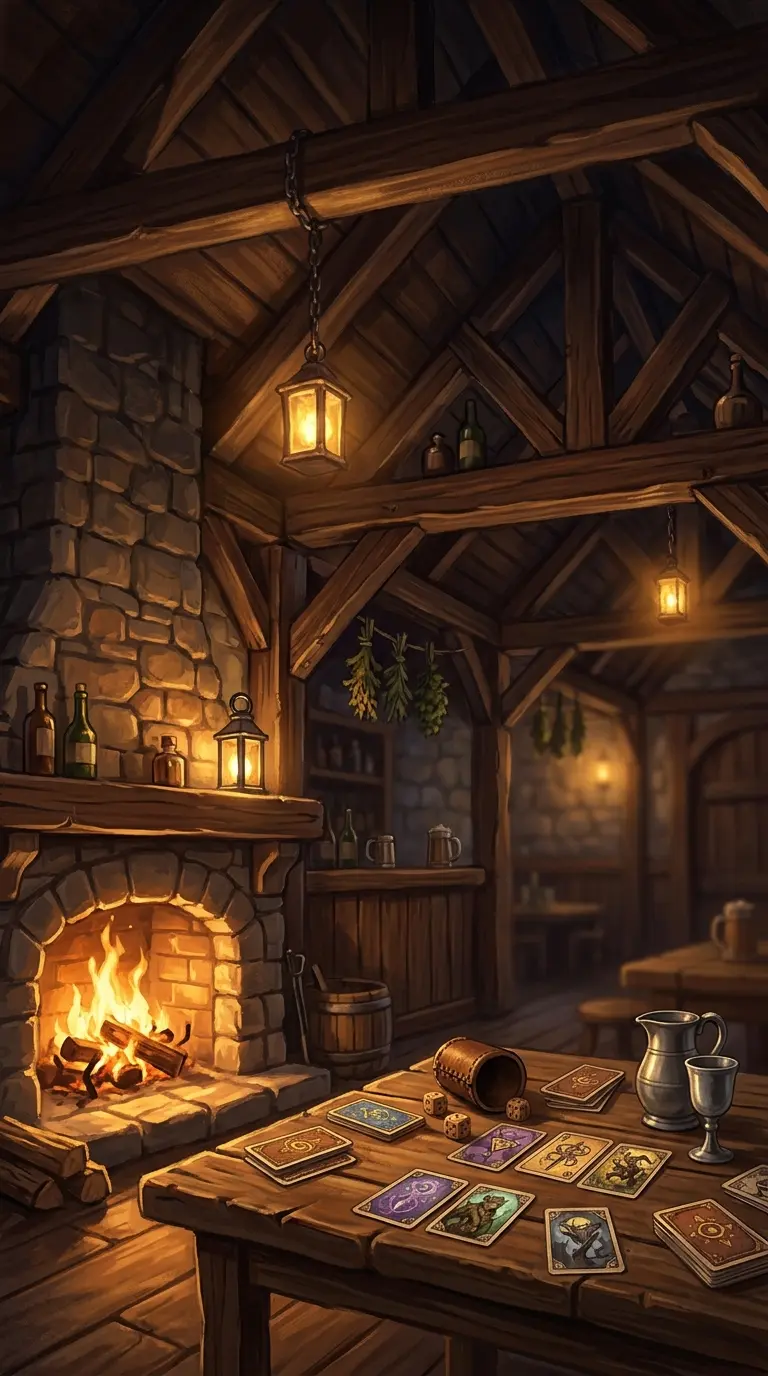
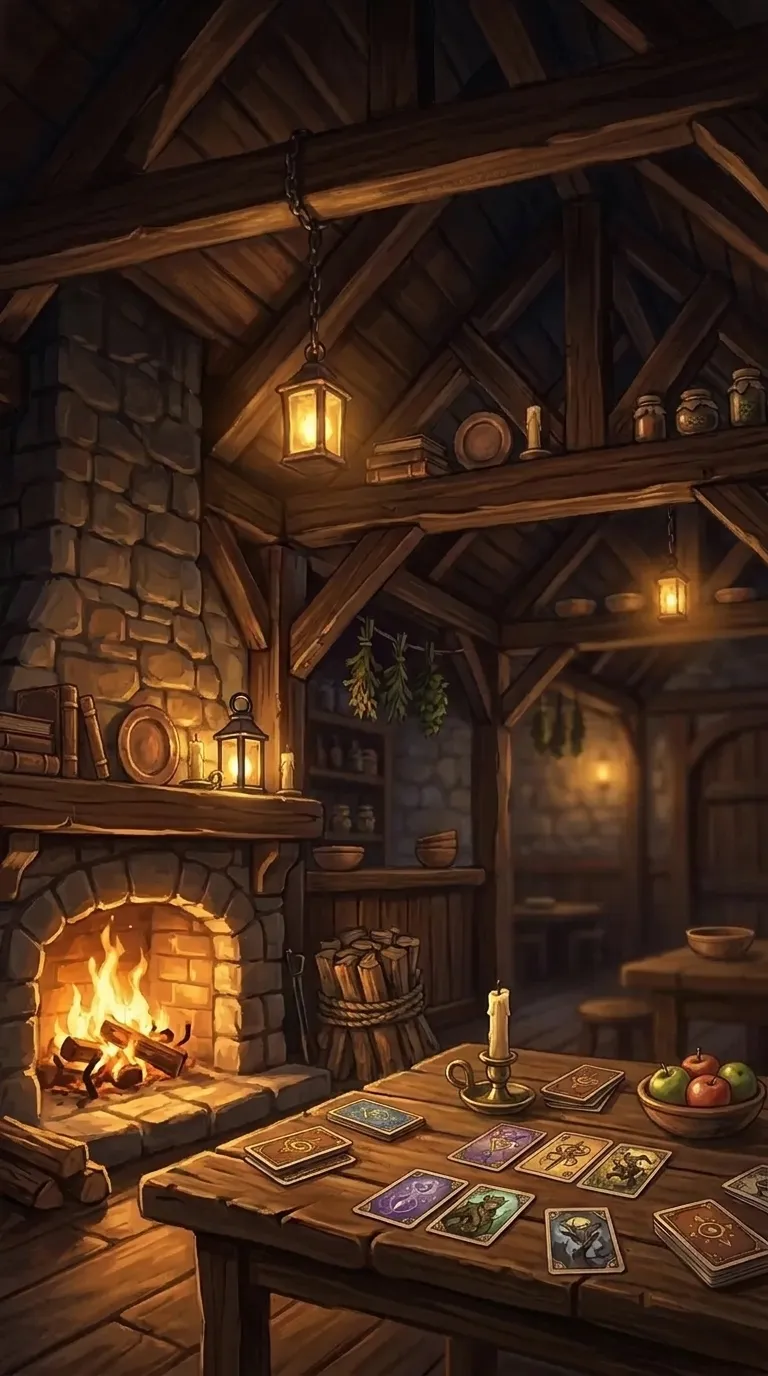
Grafik G10: Hochformat-Taverne ohne Alkohol mit Stimmungen, Lichtbilder sichtbar
- neue Hochformat-Ebene taverne-hoch.webp ohne Flaschen, Krüge, Glas und Fass (Refs #329)
  und die Stimmungen taverne-hoch-morgen|tag|nacht|winter|fest.webp für schmale Ansichten
- TavernScene wählt auch das Hochformat nach Lichtstimmung
- Im Taverne-Aussehen ist der Canvas-Grund durchsichtig, damit das gemalte Bild der
  Stimmung am Desktop sichtbar wird
- Manifest menue-licht-hoch.json, Test für Hochformat-Dateien, THIRD_PARTY.md

Refs #317, Refs #329

diff --git a/apps/web/src/components/TavernScene.tsx b/apps/web/src/components/TavernScene.tsx
@@ -33,6 +33,16 @@ const MOOD_IMAGES: Record<TavernMood, string> = {
   fest: new URL('../menu/taverne-hinten-fest.webp', import.meta.url).href,
 };
 
+/** Dieselben Stimmungen im Hochformat für schmale Ansichten (Handys). */
+const MOOD_PORTRAITS: Record<TavernMood, string> = {
+  morgen: new URL('../menu/taverne-hoch-morgen.webp', import.meta.url).href,
+  tag: new URL('../menu/taverne-hoch-tag.webp', import.meta.url).href,
+  abend: portrait,
+  nacht: new URL('../menu/taverne-hoch-nacht.webp', import.meta.url).href,
+  winter: new URL('../menu/taverne-hoch-winter.webp', import.meta.url).href,
+  fest: new URL('../menu/taverne-hoch-fest.webp', import.meta.url).href,
+};
+
 /** Gemalte Stationen im Raum (#317, freigestellt); Größe in Metern, die Beschriftung liefert der Hotspot. */
 const STATION_SPRITES: Record<string, { url: string; size: number }> = {
   single: { url: new URL('../menu/stationen/single.webp', import.meta.url).href, size: 0.9 },
@@ -139,8 +149,13 @@ export function TavernScene({ calm = false, station, still = false }: { calm?: b
       bgGrad.addColorStop(0, pal.bgTop);
       bgGrad.addColorStop(0.6, pal.bgMid);
       bgGrad.addColorStop(1, pal.bgBot);
-      ctx.fillStyle = bgGrad;
-      ctx.fillRect(0, 0, w, h);
+      // Im Taverne-Aussehen bleibt der Grund durchsichtig: Dahinter liegt das gemalte Bild der Lichtstimmung (#317).
+      if (look === 'tavern') {
+        ctx.clearRect(0, 0, w, h);
+      } else {
+        ctx.fillStyle = bgGrad;
+        ctx.fillRect(0, 0, w, h);
+      }
 
       const activeHighlight =
         getHoveredStation() ?? localHover?.id ?? (targetStation !== 'home' ? targetStation : null);
@@ -334,7 +349,7 @@ export function TavernScene({ calm = false, station, still = false }: { calm?: b
       <div className="bub-menu-layer bub-menu-back">
         {isTavern ? (
           <picture>
-            <source media="(max-width: 760px)" srcSet={portrait} />
+            <source media="(max-width: 760px)" srcSet={MOOD_PORTRAITS[mood]} />
             <img src={MOOD_IMAGES[mood]} alt="" draggable={false} />
           </picture>
         ) : (

diff --git a/tests/tavern3d.test.ts b/tests/tavern3d.test.ts
@@ -110,6 +110,8 @@ describe('Stationen und Lichtstimmungen der Taverne (#317)', () => {
     for (const mood of TAVERN_MOODS) {
       const file = mood === 'abend' ? 'taverne-hinten.webp' : `taverne-hinten-${mood}.webp`;
       expect(existsSync(new URL(file, menu)), mood).toBe(true);
+      const portrait = mood === 'abend' ? 'taverne-hoch.webp' : `taverne-hoch-${mood}.webp`;
+      expect(existsSync(new URL(portrait, menu)), `${mood} (Hochformat)`).toBe(true);
     }
   });
 

diff --git a/THIRD_PARTY.md b/THIRD_PARTY.md
@@ -153,7 +153,7 @@ Sie stehen wie die übrigen Inhalte unter CC BY-SA 4.0 (Brett & Blatt). Hinweis:
 
 ## Lichtstimmungen der Taverne (KI-erzeugt)
 
-Die Hintergrundebene der Taverne im Hauptmenü (`apps/web/src/menu/taverne-hinten.webp`, Abend) und ihre Lichtstimmungen (`taverne-hinten-morgen|tag|nacht|winter|fest.webp`): **KI-erzeugt** durch Bildbearbeitung mit „gemini-3-pro-image“ (Google), November 2026 (#317). Die Abend-Ebene entstand aus dem früheren Hauptbild, aus dem Flaschen und Fässer entfernt wurden (Alkohol-Verbot). Die Stimmungen verändern nur Licht und Ausblick. Auswahl durch Cornelius Lipponer; Manifest `menue-licht.json`. Die Bilder zeigen leere Räume ohne Personen.
+Die Hintergrundebene der Taverne im Hauptmenü (`apps/web/src/menu/taverne-hinten.webp`, Abend) und ihre Lichtstimmungen (`taverne-hinten-morgen|tag|nacht|winter|fest.webp`): **KI-erzeugt** durch Bildbearbeitung mit „gemini-3-pro-image“ (Google), November 2026 (#317). Die Abend-Ebene entstand aus dem früheren Hauptbild, aus dem Flaschen und Fässer entfernt wurden (Alkohol-Verbot). Die Stimmungen verändern nur Licht und Ausblick. Auswahl durch Cornelius Lipponer; Manifest `menue-licht.json`. Die Bilder zeigen leere Räume ohne Personen. Dasselbe gilt für die Hochformat-Ebene für schmale Ansichten (`taverne-hoch.webp` und `taverne-hoch-morgen|tag|nacht|winter|fest.webp`, Manifest `menue-licht-hoch.json`): Auch dort wurden Flaschen, Krüge, Gläser und das Fass entfernt.
 
 Sie stehen wie die übrigen Inhalte unter CC BY-SA 4.0 (Brett & Blatt). Hinweis: Die Bilder sind KI-erzeugt; ob an ihnen ein Urheberrecht besteht, ist rechtlich nicht abschließend geklärt.
 
